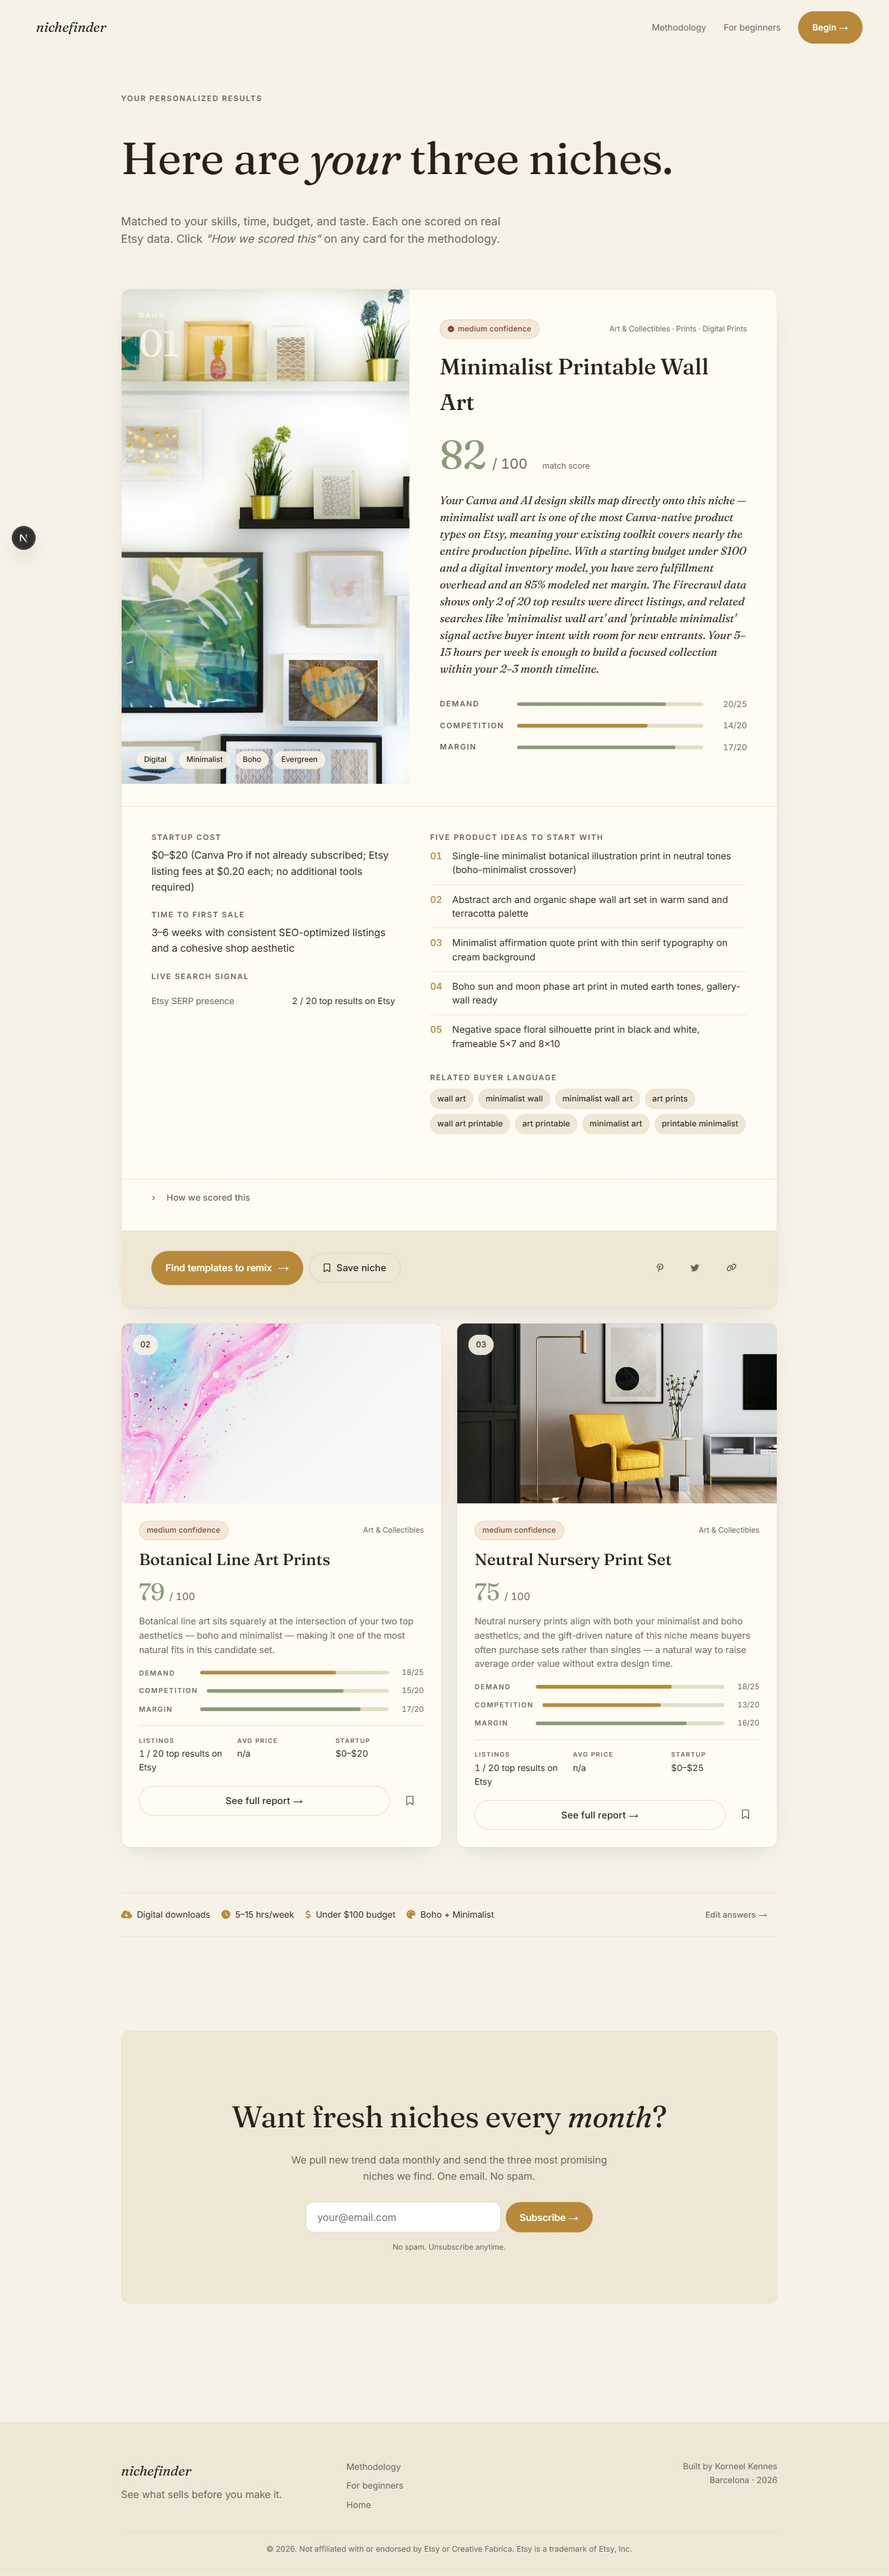
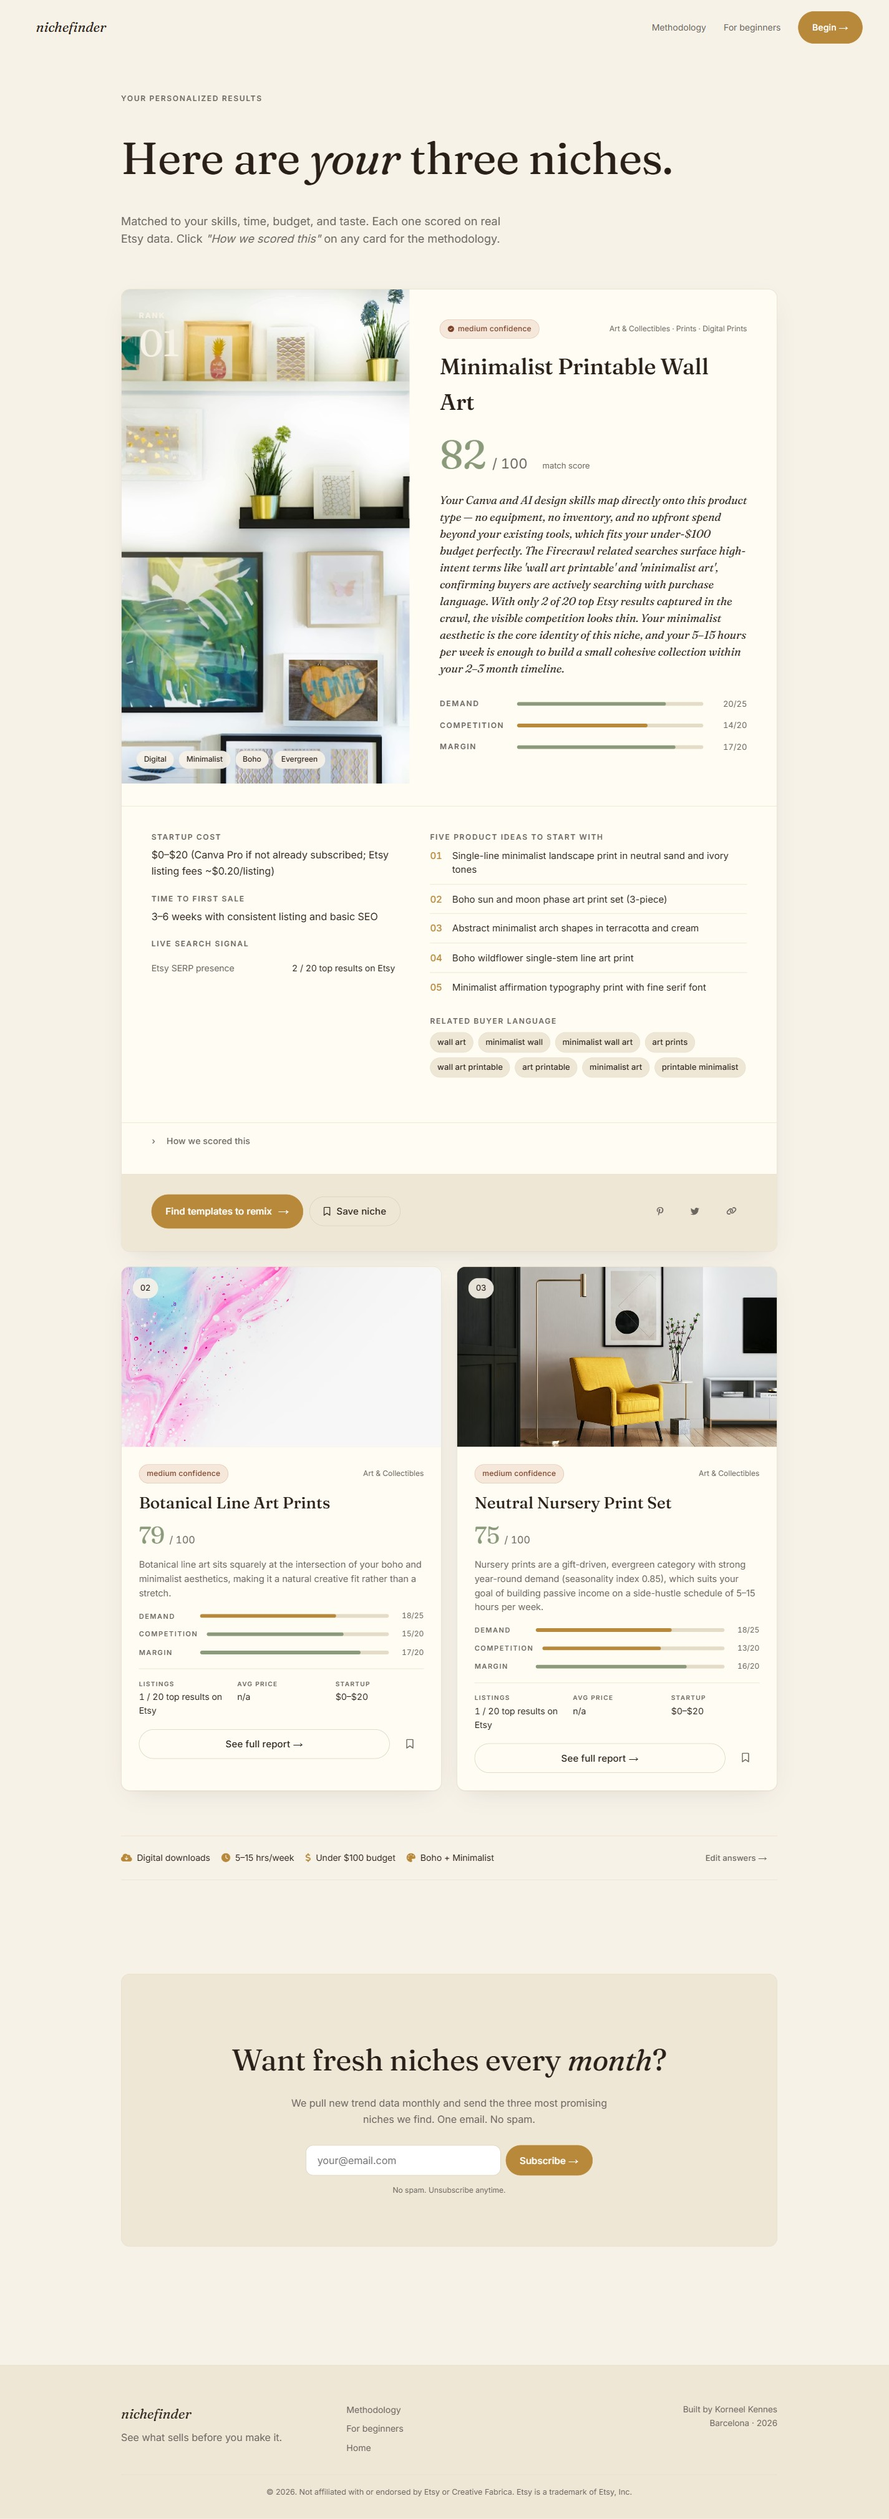
Live demo: deploy to Vercel
Production URL: https://nichefinder-nine.vercel.app

  · Linked to the Vercel project chamelio-agencys-projects/nichefinder
  · Linked to this GitHub repo for auto-deploy on push to main
  · ANTHROPIC_API_KEY + FIRECRAWL_API_KEY pushed to production env
  · Smoke-tested all 4 page routes (200) and the /api/generate-niches
    endpoint (returns source: claude, no warning) on the live URL

Refreshed screenshots taken against the production deployment so the
Next.js dev-tools indicator no longer shows.

README updated with the Live demo link, a Live-on-Vercel badge, and
clone command pointing at this repo (was a placeholder).

diff --git a/README.md b/README.md
@@ -8,6 +8,9 @@ A free, no-signup AI tool that takes an aspiring Etsy seller from
 *"I have no idea what to sell"* to **three matched niches with real numbers behind them** —
 in under a minute.
 
+### → [**Live demo · nichefinder-nine.vercel.app**](https://nichefinder-nine.vercel.app/) ←
+
+[![Live on Vercel](https://img.shields.io/badge/Live-nichefinder--nine.vercel.app-000000?logo=vercel&logoColor=white)](https://nichefinder-nine.vercel.app/)
 [![Next.js 16](https://img.shields.io/badge/Next.js-16-000000?logo=nextdotjs&logoColor=white)](https://nextjs.org/)
 [![TypeScript 5](https://img.shields.io/badge/TypeScript-5-3178C6?logo=typescript&logoColor=white)](https://www.typescriptlang.org/)
 [![Claude Sonnet 4.6](https://img.shields.io/badge/Claude-Sonnet%204.6-D97757)](https://www.anthropic.com/)
@@ -16,7 +19,9 @@ in under a minute.
 
 <br/>
 
-<img src="docs/screenshots/01-desktop-landing.jpg" alt="NicheFinder landing page" width="100%" />
+<a href="https://nichefinder-nine.vercel.app/">
+  <img src="docs/screenshots/01-desktop-landing.jpg" alt="NicheFinder landing page" width="100%" />
+</a>
 
 </div>
 
@@ -102,8 +107,8 @@ No database. No auth. No tracking pixels.
 Requires Node 20+ and npm.
 
 ```bash
-git clone https://github.com/<your-username>/nichefinder.git
-cd nichefinder
+git clone https://github.com/KorneelKennes/Nichefinder.git
+cd Nichefinder
 npm install
 
 # Optional — set up live API keys (without these the app returns mock data)
